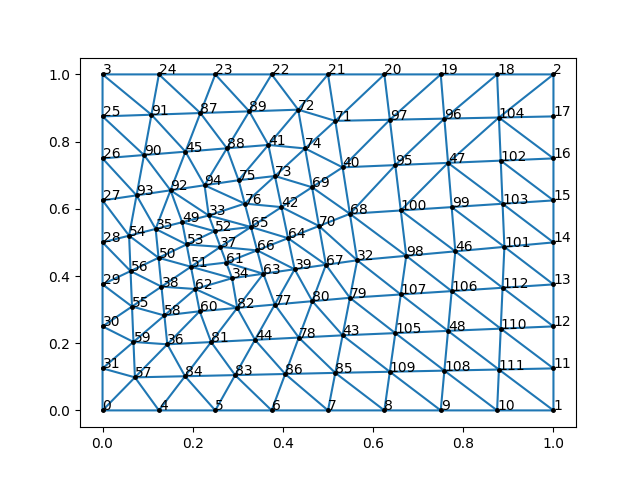
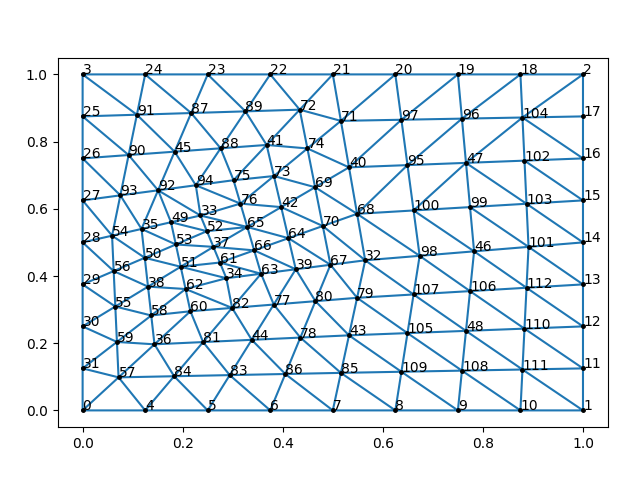
-Continued Poiseuille solution, first finished result unable to display using quiver plot. -Added new display for velocity solution. -Improved memory usage deleting unused variables and reusing variable names.

diff --git a/TccLib.py b/TccLib.py
@@ -19,6 +19,9 @@ def border_temperature_boundary_conditions(mesh):
     from collections import OrderedDict as oD
 
     # Acquiring borders
+    #     _d
+    #  a |_| c
+    #     b
     vertex_a = np.where(mesh.x == np.min(mesh.x))[0]
     vertex_b = np.where(mesh.y == np.min(mesh.y))[0]
     vertex_c = np.where(mesh.x == np.max(mesh.x))[0]
@@ -33,6 +36,45 @@ def border_temperature_boundary_conditions(mesh):
     values = np.append(values, np.zeros(len(indices) - len(values)) + 1)
 
     return indices, values, types
+
+
+def hagen_poiseuille_boundary_conditions(mesh):
+    """
+    Function that returns three vectors for the standard boundary condition for the Poisson temperature problem.
+    :param mesh: Mesh object to be used to obtain the points information.
+    """
+    import numpy as np
+    from collections import OrderedDict as oD
+
+    # Acquiring borders
+    #     _d
+    #  a |_| c
+    #     b
+    vertex_a = np.where(mesh.x == np.min(mesh.x))[0]
+    vertex_b = np.where(mesh.y == np.min(mesh.y))[0]
+    vertex_c = np.where(mesh.x == np.max(mesh.x))[0]
+    vertex_d = np.where(mesh.y == np.max(mesh.y))[0]
+
+    # Defining psi
+    indices = np.append(vertex_a, vertex_c)
+    values = list(map(lambda x: mesh.y[x], indices))
+    indices = np.array(list(oD.fromkeys(np.append(indices, vertex_b))))
+    values = np.append(values, np.zeros(len(indices) - len(values)))
+    indices = np.array(list(oD.fromkeys(np.append(indices, vertex_d))))
+    values = np.append(values, np.zeros(len(indices) - len(values)) + 1.0)
+    vector = [{"name": "psi", "indices": np.copy(indices),"values": np.copy(values), "type": True}]
+
+    # Defining velocity (x axis component)
+    indices = np.copy(vertex_a)
+    values = np.zeros(len(indices)) + 1.0
+    indices = np.array(list(oD.fromkeys(np.append(indices, np.append(vertex_b, vertex_d)))))
+    values = np.append(values, np.zeros(len(indices) - len(values)))
+    vector.append({"name": "vel_x", "indices": np.copy(indices), "values": np.copy(values), "type": True})
+
+    # Defining velocity (y axis component)
+    vector.append({"name": "vel_y", "indices": np.copy(indices), "values": np.copy(values * 0.), "type": True})
+
+    return vector
 
 
 def check_method_call(*args):
@@ -50,9 +92,9 @@ def check_method_call(*args):
     raise ValueError("Method called incorrectly, please read the documentation and try changing the arguments.")
 
 
-def adjust_figure_size(param_x, param_y):
+def style_plot(param_x, param_y):
     """
-    Ajusts figure size to better represent the image.
+    Alter the plot styling.
     :param param_x: List of x coordinates.
     :param param_y: List of y coordinates.
     """
@@ -65,6 +107,7 @@ def adjust_figure_size(param_x, param_y):
 
     fig = plt.gcf()
     fig.set_size_inches((default_size[0] * max_amplitude(param_x) / max_amplitude(param_y), 4.8))
+    fig.subplots_adjust(left=0.1 - 0.01 * max_amplitude(param_x) / max_amplitude(param_y), right=0.95)
 
 
 def create_new_surface(*imported_points, lt_version=True):
@@ -291,7 +334,7 @@ def apply_initial_boundary_conditions(mesh, boundary_name, vector_v):
     """
     for _relative_index, _point in enumerate(mesh.boundary_conditions[boundary_name].point_index_vector):
         if mesh.boundary_conditions[boundary_name].type_of_condition_vector[_relative_index]:
-            vector_v[0, _point] = mesh.boundary_conditions[boundary_name].values_vector[_relative_index]
+            vector_v[_point] = mesh.boundary_conditions[boundary_name].values_vector[_relative_index]
 
 
 def solve_poisson(mesh, permanent_solution=True, k_coef=0., k_coef_x=1.0, k_coef_y=1.0, q=0, total_time=1.):
@@ -334,6 +377,7 @@ def solve_poisson(mesh, permanent_solution=True, k_coef=0., k_coef_x=1.0, k_coef
 
     # --- Defining the Matrices ----------------------------------------------------------------------------------------
     kx_matrix, ky_matrix, m_matrix, *_ = get_matrices(mesh)  # Stiffness (G_x, G_y) and Mass matrices (M)
+    del _
     k_matrix = (k_coef_x * kx_matrix) + (k_coef_y * ky_matrix)  # K_xy = k_coef_x.G_x + k_coef_y.G_y
     q_matrix = sparse.lil_matrix((mesh.size, 1))  # Heat generation
     if isinstance(q, ComplexPointList):
@@ -356,7 +400,7 @@ def solve_poisson(mesh, permanent_solution=True, k_coef=0., k_coef_x=1.0, k_coef
         a_matrix = m_matrix / dt + k_matrix
 
         # First frame of the solution (time = 0)
-        t_vector = sparse.lil_matrix((1, mesh.size))
+        t_vector = sparse.lil_matrix((mesh.size, 1))
         apply_initial_boundary_conditions(mesh, "time", t_vector)
 
         # --------------------------------- Boundary conditions treatment ----------------------------------------------
@@ -399,35 +443,58 @@ def solve_poiseuille(mesh, nu_coef=1.0):
     dt = get_dt(mesh)
 
     # --- Defining the Matrices ----------------------------------------------------------------------------------------
-    kx_matrix, ky_matrix, m_matrix, gx_matrix, gy_matrix, = get_matrices(mesh)
+    #    K_x,       K_y,        M,       G_x,       G_y
+    k_matrix, ky_matrix, m_matrix, gx_matrix, gy_matrix, = get_matrices(mesh)
 
-    k_matrix = (kx_matrix + ky_matrix)  # K_xy = K_x + K_y
+    k_matrix = (k_matrix + ky_matrix)  # K_xy = K_x + K_y
 
-    velocity_x_vector = sparse.csc_matrix((0, mesh.size))
-    velocity_y_vector = sparse.csc_matrix((0, mesh.size))
-    omega_vector = sparse.lil_matrix((0, mesh.size))
+    velocity_x_vector = sparse.csc_matrix((mesh.size, 1))
+    velocity_y_vector = sparse.csc_matrix((mesh.size, 1))
 
-    # --------------------------------- Boundary conditions treatment --------------------------------------------------
-    apply_initial_boundary_conditions(mesh, omega_vector)
+    # --------------------------------- Set initial boundary conditions ------------------------------------------------
+    apply_initial_boundary_conditions(mesh, "vel_x", velocity_x_vector)
+    apply_initial_boundary_conditions(mesh, "vel_y", velocity_y_vector)
 
     # --------------------------------- Solve Loop ---------------------------------------------------------------------
-    for i in range(10):
+    for i in range(5):
+        # ------------------------ Acquire omega boundary condition ----------------------------------------------------
+        #      M * w = (G_x * v_y) - (G_y * v_x)
         omega_vector = linalg.spsolve(m_matrix.tocsc(), (gx_matrix.dot(velocity_y_vector) -
                                                          gy_matrix.dot(velocity_x_vector)))
+        mesh.new_boundary_condition("omega", point_index=range(mesh.size), values=omega_vector, type_of_boundary=True)
 
-        a_matrix = (m_matrix / dt + nu_coef * k_matrix +
-                    velocity_x_vector.dot(gx_matrix) + velocity_y_vector.dot(gy_matrix))
+        # ------------------------ Solve omega -------------------------------------------------------------------------
+        #      A = M/dt + nu.K + (v * G) !DIMENSIONS DON'T FIT!
+        # TODO: ASK WHY IMPLICIT SOLUTION'S DIMENSIONS DON'T FIT
+        a_matrix = (m_matrix / dt + nu_coef * k_matrix)
 
-        b_vector = (m_matrix / dt).dot(omega_vector)
+        #      b = M/dt - v * G
+        b_vector = (sparse.csr_matrix((m_matrix / dt).dot(omega_vector)).T -
+                    gx_matrix.dot(velocity_x_vector) + gy_matrix.dot(velocity_y_vector))
+        # Applying b.c.
+        apply_boundary_conditions(mesh, "omega", a_matrix, b_vector)
 
-        apply_boundary_conditions(mesh, a_matrix, b_vector)
+        #      A * x = b   ->   x = solve(A, b)
+        omega_vector = sparse.lil_matrix(linalg.spsolve(a_matrix.tocsc(), b_vector)).T
 
-        omega_vector = linalg.spsolve(a_matrix.tocsc(), b_vector)
+        # ------------------------ Solve psi ---------------------------------------------------------------------------
+        #          A = K
+        a_matrix = sparse.lil_matrix(k_matrix, copy=True)
 
-        psi_vector = linalg.spsolve(k_matrix.tocsc(), m_matrix.dot(omega_vector))
+        #      b = M
+        b_vector = sparse.lil_matrix(m_matrix, copy=True)
 
-        velocity_x_vector = linalg.spsolve(m_matrix.tocsc(), gy_matrix.dot(psi_vector))
-        velocity_y_vector = linalg.spsolve(m_matrix.tocsc(), -gx_matrix.dot(psi_vector))
+        # Applying b.c.
+        apply_boundary_conditions(mesh, "psi", a_matrix, b_vector)
+
+        #      A * x = b   ->   x = solve(A, b)
+        psi_vector = sparse.lil_matrix(linalg.spsolve(k_matrix.tocsr(), m_matrix.dot(omega_vector))).T
+
+        # ------------------------ Solve velocities --------------------------------------------------------------------
+        velocity_x_vector = sparse.lil_matrix(linalg.spsolve(m_matrix.tocsc(), gy_matrix.dot(psi_vector))).T
+        velocity_y_vector = sparse.lil_matrix(linalg.spsolve(m_matrix.tocsc(), -gx_matrix.dot(psi_vector))).T
+
+    return velocity_x_vector.todense(), velocity_y_vector.todense()
 
 
 # -- Classes -----------------------------------------------------------------------------------------------------------
@@ -500,15 +567,19 @@ class Mesh:
                 else:
                     self.type_of_condition_vector = np.array([type_of_boundary] * len(point_index))
 
-    def __init__(self, name="untitled", default_boundary_conditions=True):
+    def __init__(self, name="untitled", points=None):
         """
         Class constructor, initializes geometry.
         :param name: Mesh's main name.
-        :param default_boundary_conditions: Determine if the default conditions are to be applied
         """
         import os
         self.name = name
-        self.import_point_structure(import_mesh_file=self.name)
+
+        if isinstance(points, list):
+            self.import_point_structure(points=points)
+        else:
+            self.import_point_structure(import_mesh_file=self.name)
+
         self.boundary_conditions = {}
 
         try:
@@ -518,7 +589,7 @@ class Mesh:
             os.chdir("./results/{0}/".format(self.name))
         # TODO: COPY ORIGINAL .msh FILE TO NEW DIRECTORY
 
-    def import_point_structure(self, *args, points=False, light_version=True, import_mesh_file=""):
+    def import_point_structure(self, *args, points=None, light_version=True, import_mesh_file=""):
         """
         Imports points position to create mesh from source file.
         :param args: Name of source file, defaults to "points.txt".
@@ -566,7 +637,7 @@ class Mesh:
         self.boundary_conditions[name].set_new_boundary_condition(point_index=point_index, values=values,
                                                                   type_of_boundary=type_of_boundary)
 
-    def output(self, result_vector, extension="VTK", dt=0., data_name = "Temperature"):
+    def output(self, result_vector, extension="VTK", dt=0., data_name="Temperature"):
         """
         Export result to .vtk or .csv file
         :param result_vector: The vector of the value in each point
@@ -653,7 +724,7 @@ class Mesh:
         import matplotlib.pyplot as plt
 
         plt.plot(self.x, self.y, marker=".", color="k", linestyle="none", ms=5)
-        adjust_figure_size(self.x, self.y)
+        style_plot(self.x, self.y)
 
         if names:
             for _index in range(self.size):
@@ -682,7 +753,7 @@ class Mesh:
         :param solution_vector: Vector that contains the value of the solution for each point in the mesh.
         :return: Display image.
         """
-        from matplotlib import pyplot
+        import matplotlib.pyplot as plt
         from mpl_toolkits.mplot3d import Axes3D
 
         check_method_call(solution_vector)
@@ -695,15 +766,15 @@ class Mesh:
 
         self.output(solution_vector)
 
-        fig = pyplot.gcf()
+        fig = plt.gcf()
         axes = Axes3D(fig)
         surf = axes.plot_trisurf(self.x, self.y, solution_vector, cmap="jet")
         axes.view_init(90, 270)
         fig.colorbar(surf, shrink=0.4, aspect=9)
 
-        pyplot.savefig("{0}_permanent_results".format(self.name))
+        plt.savefig("{0}_permanent_results".format(self.name))
 
-        return pyplot.show()
+        return plt.show()
 
     def show_animated_3d_solution(self, frames_vector, dt=0.):
         """
@@ -752,6 +823,32 @@ class Mesh:
         if dt:
             self.output(frames_vector, dt=dt)
             animation.save("{0}_transient_results.gif".format(self.name), dpi=80, writer='imagemagick')
+
+        return plt.show()
+
+    def show_velocity_solution(self, velocity_x, velocity_y):
+        """
+
+        :param velocity_x:
+        :param velocity_y:
+        :return:
+        """
+        import matplotlib.pyplot as plt
+
+        check_method_call(velocity_x, velocity_y)
+        try:
+            if len(velocity_x) != self.size or len(velocity_y) != self.size:
+                raise ValueError("Incorrect size of solution vector, it must be the same size as the mesh: "
+                                 "{0}".format(self.size))
+        except TypeError:
+            raise ValueError("Solution must be a vector")
+
+        # self.output(solution_vector)
+
+        fig, axes = plt.subplots()
+        q = axes.quiver(self.x, self.y, velocity_x, velocity_y)
+
+        # plt.savefig("{0}_permanent_results".format(self.name))
 
         return plt.show()
 

diff --git a/Run.py b/Run.py
@@ -3,12 +3,13 @@ import numpy as np
 from matplotlib import pyplot
 from mpl_toolkits.mplot3d import Axes3D
 
-malha = Mesh("Poisson")
 
-# xx, yy = np.meshgrid(np.linspace(0, 1, 10), np.linspace(0, 1, 15))
-# xx = np.array(np.reshape(xx, (xx.size, 1)))
-# yy = np.array(np.reshape(yy, (yy.size, 1)))
-# xy = np.hstack((xx, yy))
+xx, yy = np.meshgrid(np.linspace(0, 5, 20), np.linspace(0, 1, 10))
+xx = np.array(np.reshape(xx, (xx.size, 1)))
+yy = np.array(np.reshape(yy, (yy.size, 1)))
+xy = np.hstack((xx, yy))
+
+malha = Mesh("Poiseuille", points=list(xy))
 
 # rand = np.random.rand(200)
 # rand_2 = np.random.rand(200)
@@ -16,20 +17,31 @@ malha = Mesh("Poisson")
 # xy = np.array(([0, 0], [1, 0],
 #                [1, 1], [0, 1]))
 # xy = np.vstack((xy, np.array(list(zip(rand, rand_2)))))
-# malha.show_geometry(names=True)
+malha.show_geometry(names=True)
 
-xy_indices, xy_values, xy_types = border_temperature_boundary_conditions(malha)
+# xy_indices, xy_values, xy_types = border_temperature_boundary_conditions(malha)
 
-malha.new_boundary_condition("space", point_index=xy_indices, values=xy_values,
-                             type_of_boundary=True)
-malha.new_boundary_condition("time", point_index=xy_indices, values=xy_values,
-                             type_of_boundary=True)
-Q = ComplexPointList([32, 39, 64, 67, 68, 70], 50.)
-permanent = False
-# quit()
-vect = solve_poisson(malha, permanent_solution=permanent)
-if permanent:
-    malha.show_3d_solution(vect)
+# malha.new_boundary_condition("space", point_index=xy_indices, values=xy_values,
+#                              type_of_boundary=True)
+# malha.new_boundary_condition("time", point_index=xy_indices, values=xy_values,
+#                              type_of_boundary=True)
+
+list(map(lambda _vect: malha.new_boundary_condition(_vect["name"], point_index=_vect["indices"], values=_vect["values"],
+                                                    type_of_boundary=_vect["type"]),
+         hagen_poiseuille_boundary_conditions(malha)))
+
+poiseuille = True
+
+if poiseuille:
+    vel_x, vel_y = solve_poiseuille(malha)
+    malha.show_velocity_solution(vel_x, vel_y)
+
 else:
-    # malha.show_solution(vect[-1])
-    malha.show_animated_3d_solution(vect)
+    Q = ComplexPointList([32, 39, 64, 67, 68, 70], 50.)
+    permanent = False
+    vect = solve_poisson(malha, permanent_solution=permanent)
+    if permanent:
+        malha.show_3d_solution(vect)
+    else:
+        # malha.show_solution(vect[-1])
+        malha.show_animated_3d_solution(vect)
